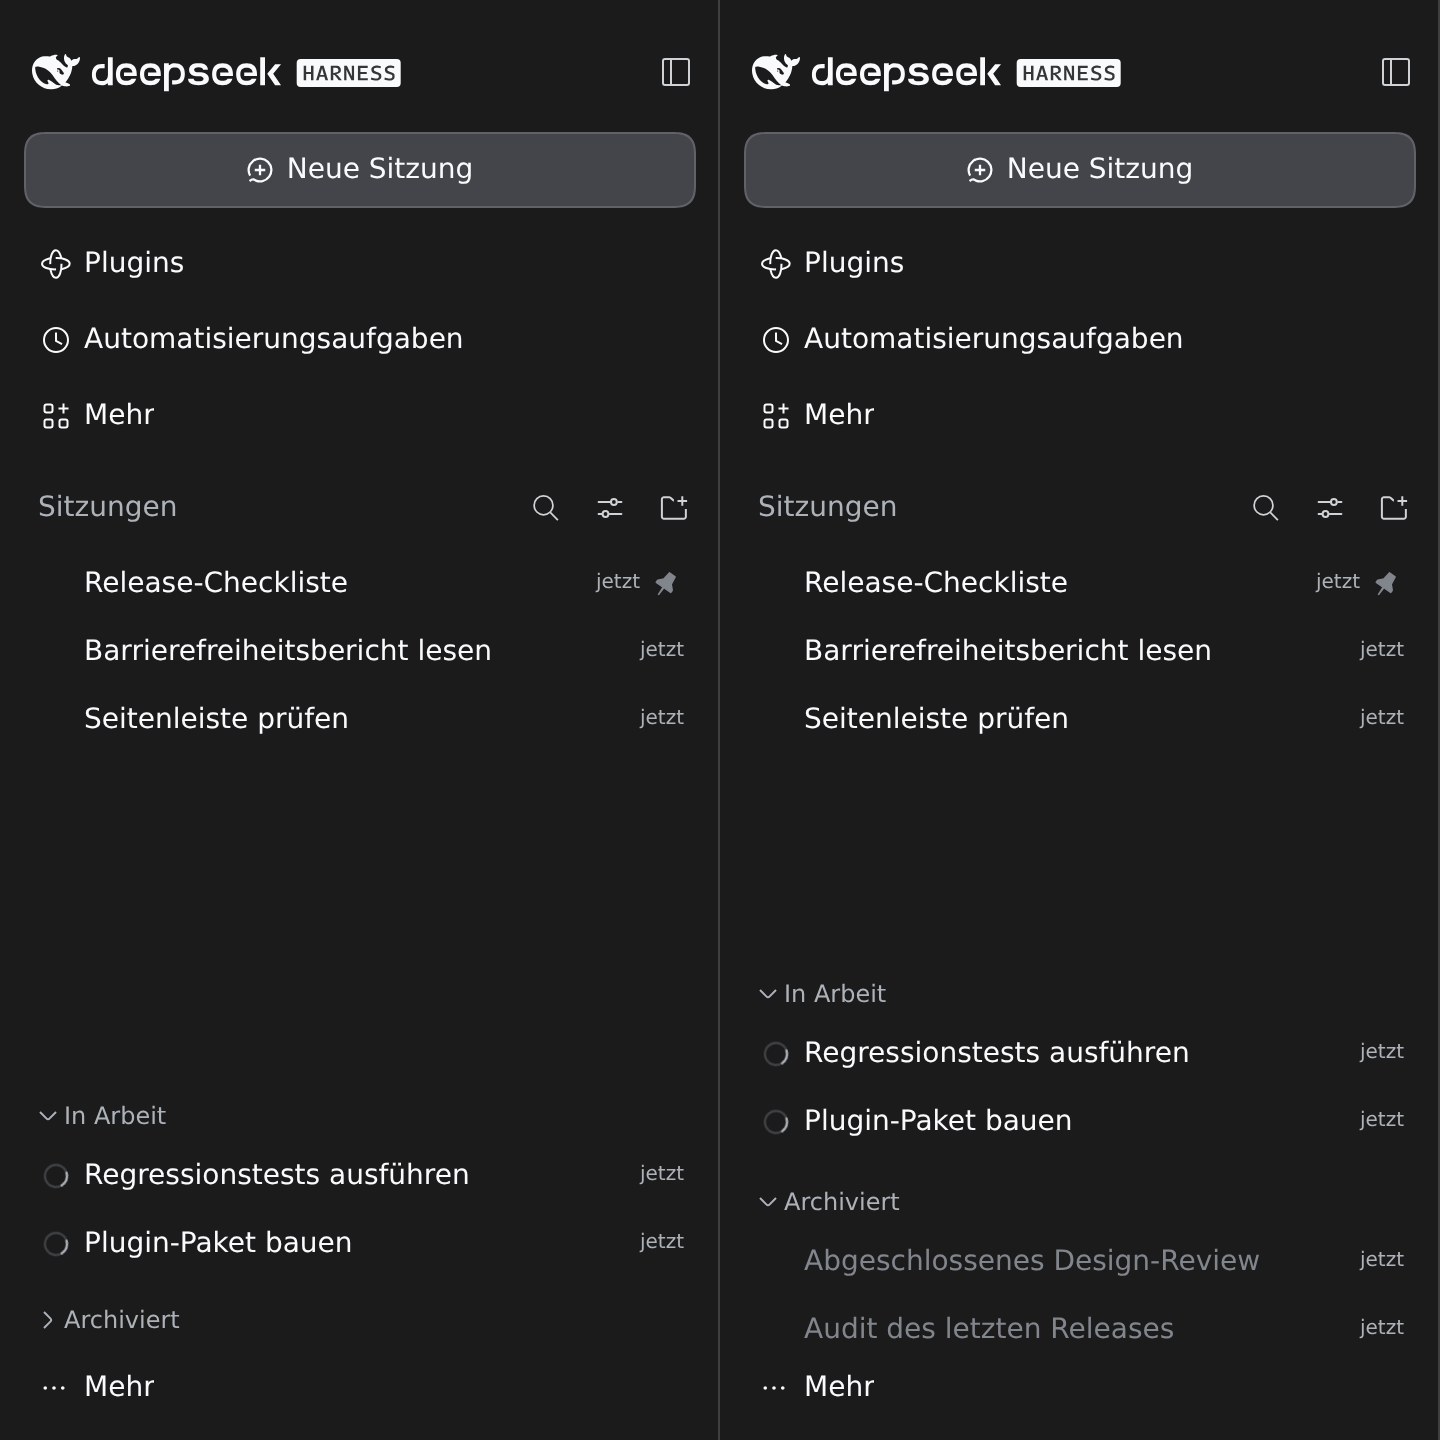
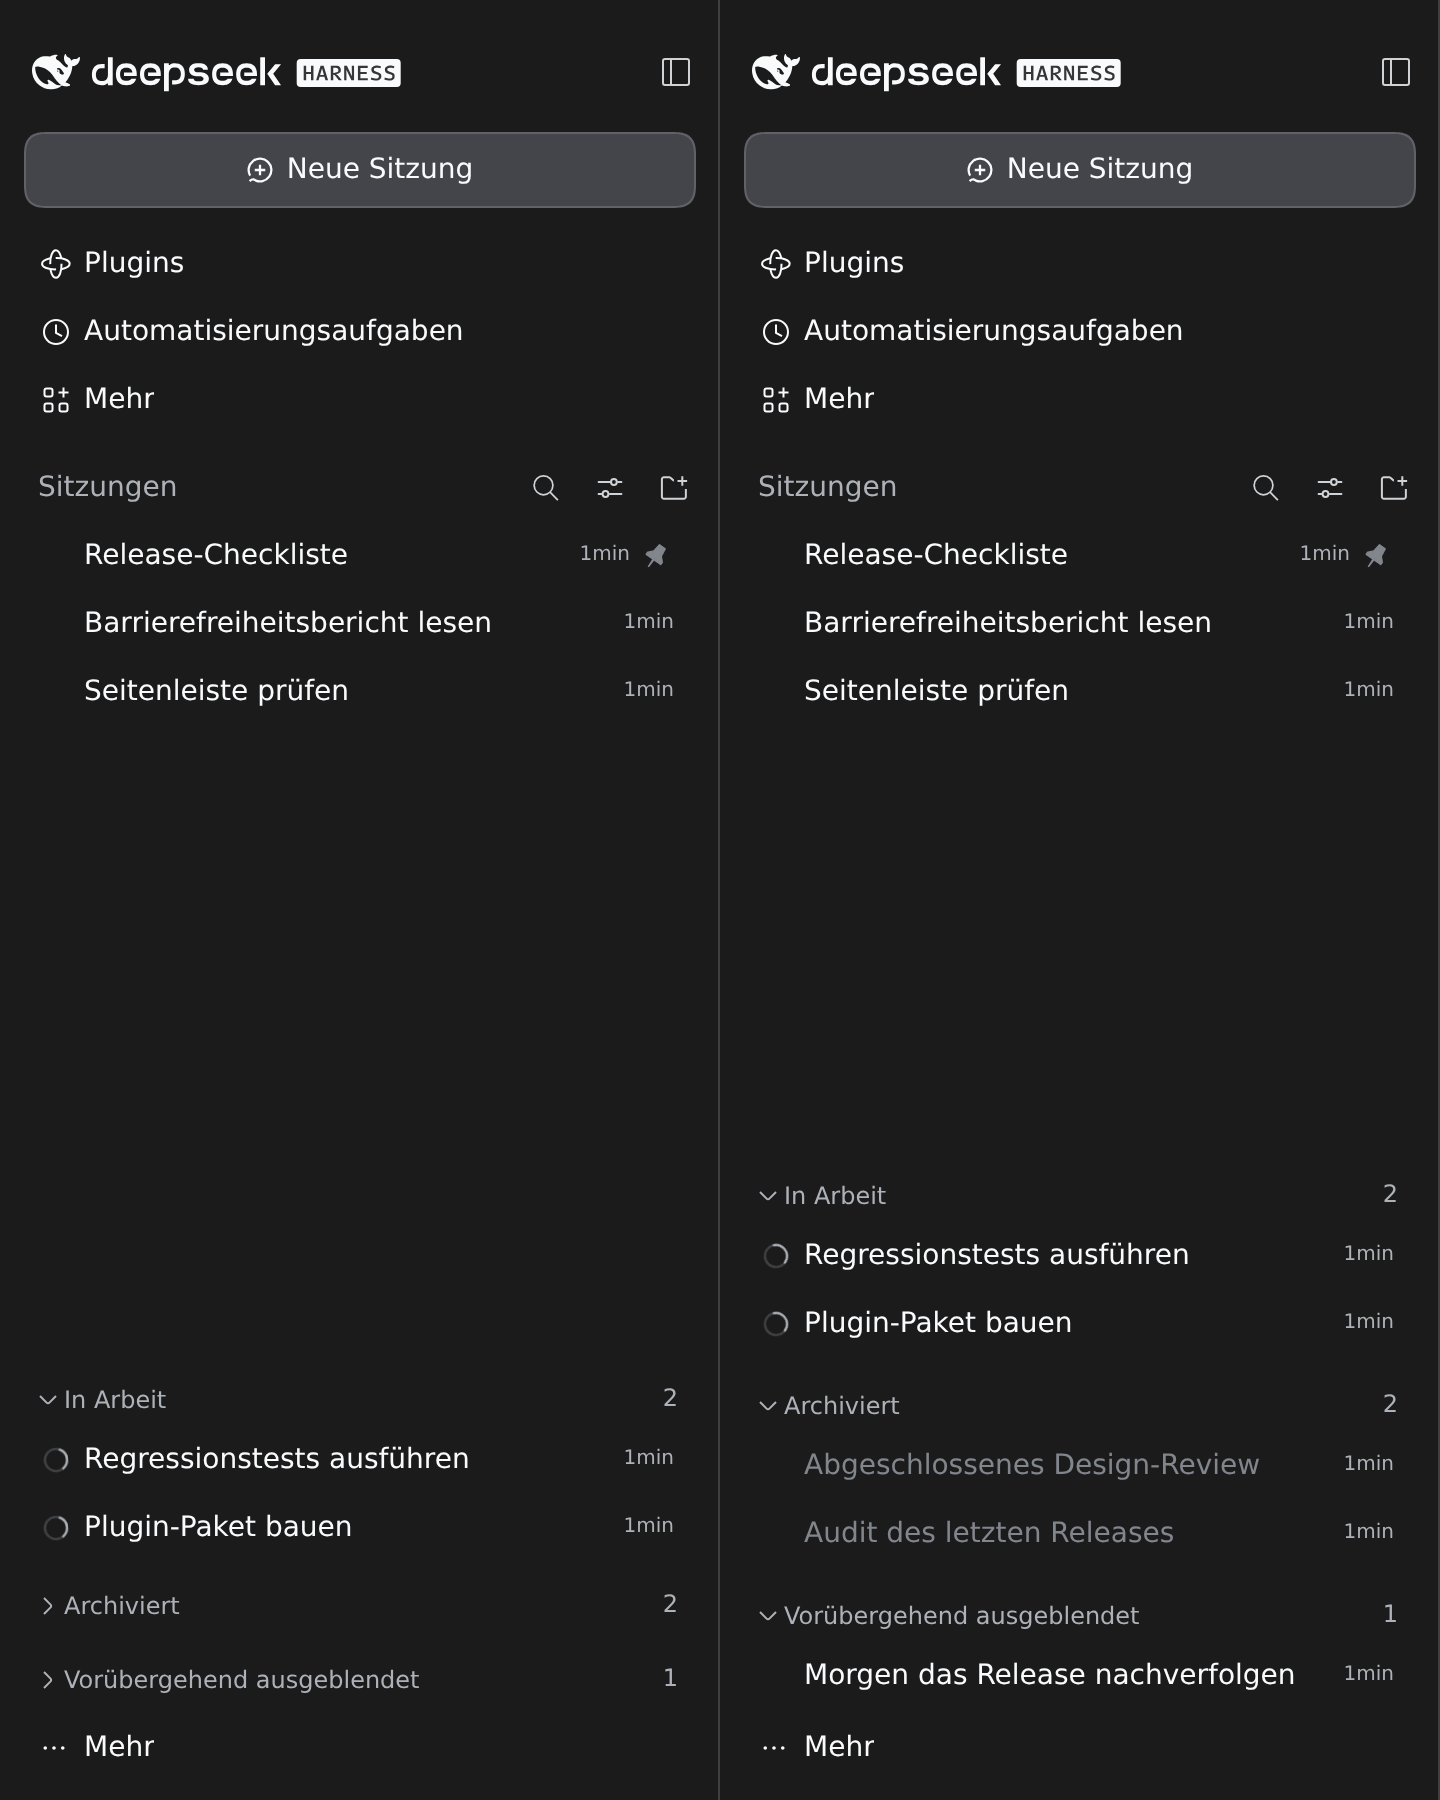
fix(sidebar-inbox): 하단 고정을 복구하고 잠시 숨김 미리보기를 갱신한다 (#234)

diff --git a/packages/ui-sidebar-inbox/src/headings.ts b/packages/ui-sidebar-inbox/src/headings.ts
@@ -41,6 +41,15 @@ export function installHeadings(
   const open: Record<FooterSection, boolean> = { Working: true, Archived: false, Snoozed: false }
   const style = document.createElement('style')
   style.textContent = `
+    /* The native wide sidebar sizes its final grid row to content. While we
+       split the list into panes, let that row and its list fill the viewport. */
+    [data-sidebar-scrollport]:has([data-dsh-inbox-tree]) {
+      grid-template-rows: 8px max-content 2px minmax(0, 1fr);
+    }
+    [data-sidebar-scrollport] :has(> [data-sidebar-list-area] [data-dsh-inbox-tree]) { flex: 1; }
+    [data-sidebar-scrollport] [data-sidebar-list-area]:has([data-dsh-inbox-tree]) { display: flex; }
+    /* The native viewport fade must not cover the independently scrolling footer. */
+    [data-sidebar-scrollport]:has([data-dsh-inbox-tree]) + span[aria-hidden="true"] { display: none; }
     [data-dsh-inbox-tree] {
       display: flex; flex-direction: column; padding-bottom: 0;
       overflow: hidden; scrollbar-gutter: auto; interpolate-size: allow-keywords;
@@ -167,7 +176,7 @@ export function installHeadings(
   }
   const sizeFooters = () => {
     for (const [tree, { footer }] of panes) {
-      footer.style.maxBlockSize = `${footerLimit(tree, window.innerHeight)}px`
+      footer.style.maxBlockSize = `${Math.min(tree.clientHeight / 2, footerLimit(tree, window.innerHeight))}px`
     }
   }
   const animateArchive = (tree: HTMLElement, from: number) => {
@@ -185,7 +194,7 @@ export function installHeadings(
         (Number.parseFloat(margins.marginTop) || 0) +
         (Number.parseFloat(margins.marginBottom) || 0)
     }
-    const target = Math.min(naturalHeight, footerLimit(tree, window.innerHeight))
+    const target = Math.min(naturalHeight, tree.clientHeight / 2, footerLimit(tree, window.innerHeight))
     if (Math.abs(target - from) < 0.5) return
     const duration = open.Archived ? 480 : 260
     footer.style.transition = 'none'

diff --git a/packages/ui-sidebar-inbox/README.ru.md b/packages/ui-sidebar-inbox/README.ru.md
@@ -8,13 +8,13 @@
 
 ## Предпросмотр
 
-**Светлая тема**: слева «Архивные» свёрнуты, справа развёрнуты.
+**Светлая тема**: слева «Архивные» и «Временно скрытые» свёрнуты, справа развёрнуты. Заголовки показывают количество сеансов.
 
-<img src="./assets/sidebar-preview-ru-light.webp" alt="Sidebar Inbox в светлой теме с русским интерфейсом: закреплённые сеансы и сеансы из входящих вверху, список «В работе» внизу; сравнение свёрнутых «Архивных» слева и развёрнутых справа" width="720" />
+<img src="./assets/sidebar-preview-ru-light.webp" alt="Sidebar Inbox в светлой теме: закреплённые и входящие сеансы, «В работе», «Архивные» и «Временно скрытые» с количеством; два последних раздела свёрнуты слева и развёрнуты справа" width="720" />
 
-**Тёмная тема**: те же примеры сеансов; сравнение свёрнутых и развёрнутых «Архивных».
+**Тёмная тема**: те же примеры сеансов; сравнение свёрнутых и развёрнутых «Архивных» и «Временно скрытых».
 
-<img src="./assets/sidebar-preview-ru-dark.webp" alt="Sidebar Inbox в тёмной теме с русским интерфейсом: закреплённые сеансы и сеансы из входящих вверху, список «В работе» внизу; сравнение свёрнутых «Архивных» слева и развёрнутых справа" width="720" />
+<img src="./assets/sidebar-preview-ru-dark.webp" alt="Sidebar Inbox в тёмной теме: закреплённые и входящие сеансы, «В работе», «Архивные» и «Временно скрытые» с количеством; два последних раздела свёрнуты слева и развёрнуты справа" width="720" />
 
 ## Использование
 

diff --git a/packages/ui-sidebar-inbox/README.es.md b/packages/ui-sidebar-inbox/README.es.md
@@ -8,13 +8,13 @@ Organiza la lista de sesiones de la barra lateral de DSH **por estado**, como T3
 
 ## Vista previa
 
-**Claro**: a la izquierda, Archivadas plegado; a la derecha, desplegado.
+**Claro**: Archivadas y Ocultas temporalmente están plegadas a la izquierda y desplegadas a la derecha. Los encabezados muestran el número de sesiones.
 
-<img src="./assets/sidebar-preview-es-light.webp" alt="Sidebar Inbox con el tema claro y la interfaz en español: sesiones fijadas y de la bandeja de entrada arriba y la lista En curso abajo, comparando Archivadas plegado a la izquierda y desplegado a la derecha" width="720" />
+<img src="./assets/sidebar-preview-es-light.webp" alt="Sidebar Inbox con tema claro: sesiones fijadas y de la bandeja de entrada, En curso, Archivadas y Ocultas temporalmente con recuentos; las dos últimas plegadas a la izquierda y desplegadas a la derecha" width="720" />
 
-**Oscuro**: las mismas sesiones de ejemplo, comparando Archivadas plegado y desplegado.
+**Oscuro**: las mismas sesiones de ejemplo, comparando Archivadas y Ocultas temporalmente plegadas y desplegadas.
 
-<img src="./assets/sidebar-preview-es-dark.webp" alt="Sidebar Inbox con el tema oscuro y la interfaz en español: sesiones fijadas y de la bandeja de entrada arriba y la lista En curso abajo, comparando Archivadas plegado a la izquierda y desplegado a la derecha" width="720" />
+<img src="./assets/sidebar-preview-es-dark.webp" alt="Sidebar Inbox con tema oscuro: sesiones fijadas y de la bandeja de entrada, En curso, Archivadas y Ocultas temporalmente con recuentos; las dos últimas plegadas a la izquierda y desplegadas a la derecha" width="720" />
 
 ## Uso
 

diff --git a/packages/ui-sidebar-inbox/README.fr.md b/packages/ui-sidebar-inbox/README.fr.md
@@ -8,13 +8,13 @@ Ce plugin organise la liste des sessions de la barre latérale de DSH **par éta
 
 ## Aperçu
 
-**Clair** : à gauche, Archivées replié ; à droite, déplié.
+**Clair** : Archivées et Masquées temporairement sont repliées à gauche et dépliées à droite. Les titres indiquent le nombre de sessions.
 
-<img src="./assets/sidebar-preview-fr-light.webp" alt="Sidebar Inbox avec le thème clair et l’interface en français : sessions épinglées et de la boîte de réception en haut, liste En cours en bas, comparaison d’Archivées replié à gauche et déplié à droite" width="720" />
+<img src="./assets/sidebar-preview-fr-light.webp" alt="Sidebar Inbox en thème clair : sessions épinglées et reçues, En cours, Archivées et Masquées temporairement avec compteurs ; les deux dernières repliées à gauche et dépliées à droite" width="720" />
 
-**Sombre** : les mêmes sessions d’exemple, comparant Archivées replié et déplié.
+**Sombre** : les mêmes sessions d’exemple, comparant Archivées et Masquées temporairement repliées et dépliées.
 
-<img src="./assets/sidebar-preview-fr-dark.webp" alt="Sidebar Inbox avec le thème sombre et l’interface en français : sessions épinglées et de la boîte de réception en haut, liste En cours en bas, comparaison d’Archivées replié à gauche et déplié à droite" width="720" />
+<img src="./assets/sidebar-preview-fr-dark.webp" alt="Sidebar Inbox en thème sombre : sessions épinglées et reçues, En cours, Archivées et Masquées temporairement avec compteurs ; les deux dernières repliées à gauche et dépliées à droite" width="720" />
 
 ## Utilisation
 

diff --git a/packages/ui-sidebar-inbox/README.pt.md b/packages/ui-sidebar-inbox/README.pt.md
@@ -8,13 +8,13 @@ Organiza a lista de sessões da barra lateral do DSH **por estado**, como o T3 C
 
 ## Pré-visualização
 
-**Claro**: à esquerda, Arquivadas recolhido; à direita, expandido.
+**Claro**: Arquivadas e Ocultadas temporariamente estão recolhidas à esquerda e expandidas à direita. Os títulos mostram a contagem de sessões.
 
-<img src="./assets/sidebar-preview-pt-light.webp" alt="Sidebar Inbox no tema claro com a interface em português: sessões fixadas e da caixa de entrada no topo e a lista Em andamento embaixo, comparando Arquivadas recolhido à esquerda e expandido à direita" width="720" />
+<img src="./assets/sidebar-preview-pt-light.webp" alt="Sidebar Inbox no tema claro: sessões fixadas e da caixa de entrada, Em andamento, Arquivadas e Ocultadas temporariamente com contagens; as duas últimas recolhidas à esquerda e expandidas à direita" width="720" />
 
-**Escuro**: as mesmas sessões de exemplo, comparando Arquivadas recolhido e expandido.
+**Escuro**: as mesmas sessões de exemplo, comparando Arquivadas e Ocultadas temporariamente recolhidas e expandidas.
 
-<img src="./assets/sidebar-preview-pt-dark.webp" alt="Sidebar Inbox no tema escuro com a interface em português: sessões fixadas e da caixa de entrada no topo e a lista Em andamento embaixo, comparando Arquivadas recolhido à esquerda e expandido à direita" width="720" />
+<img src="./assets/sidebar-preview-pt-dark.webp" alt="Sidebar Inbox no tema escuro: sessões fixadas e da caixa de entrada, Em andamento, Arquivadas e Ocultadas temporariamente com contagens; as duas últimas recolhidas à esquerda e expandidas à direita" width="720" />
 
 ## Uso
 

diff --git a/packages/ui-sidebar-inbox/README.de.md b/packages/ui-sidebar-inbox/README.de.md
@@ -8,13 +8,13 @@ Das Plugin ordnet die Sitzungsliste in der DSH-Seitenleiste **nach Status**, äh
 
 ## Vorschau
 
-**Hell**: Links ist Archiviert eingeklappt, rechts ausgeklappt.
+**Hell**: Links sind Archiviert und Vorübergehend ausgeblendet eingeklappt, rechts ausgeklappt. Die Überschriften zeigen die Sitzungsanzahl.
 
-<img src="./assets/sidebar-preview-de-light.webp" alt="Sidebar Inbox im hellen Design mit deutscher Oberfläche: angeheftete und Posteingangs-Sitzungen oben, die Liste In Arbeit unten, Vergleich von Archiviert eingeklappt links und ausgeklappt rechts" width="720" />
+<img src="./assets/sidebar-preview-de-light.webp" alt="Sidebar Inbox im hellen Design: angeheftete und Posteingangs-Sitzungen sowie In Arbeit, Archiviert und Vorübergehend ausgeblendet mit Anzahl; die letzten beiden links eingeklappt, rechts ausgeklappt" width="720" />
 
-**Dunkel**: Dieselben Beispielsitzungen im Vergleich von Archiviert eingeklappt und ausgeklappt.
+**Dunkel**: Dieselben Beispielsitzungen mit Archiviert und Vorübergehend ausgeblendet im eingeklappten und ausgeklappten Zustand.
 
-<img src="./assets/sidebar-preview-de-dark.webp" alt="Sidebar Inbox im dunklen Design mit deutscher Oberfläche: angeheftete und Posteingangs-Sitzungen oben, die Liste In Arbeit unten, Vergleich von Archiviert eingeklappt links und ausgeklappt rechts" width="720" />
+<img src="./assets/sidebar-preview-de-dark.webp" alt="Sidebar Inbox im dunklen Design: angeheftete und Posteingangs-Sitzungen sowie In Arbeit, Archiviert und Vorübergehend ausgeblendet mit Anzahl; die letzten beiden links eingeklappt, rechts ausgeklappt" width="720" />
 
 ## Verwendung
 

diff --git a/packages/ui-sidebar-inbox/README.en.md b/packages/ui-sidebar-inbox/README.en.md
@@ -8,13 +8,13 @@ Sidebar Inbox organizes the DSH sidebar session list **by state**, like T3 Code 
 
 ## Preview
 
-**Light**: Archived is collapsed on the left and expanded on the right.
+**Light**: Archived and Snoozed are collapsed on the left and expanded on the right. Section headings show session counts.
 
-<img src="./assets/sidebar-preview-en-light.webp" alt="Sidebar Inbox in the light theme: pinned and inbox sessions at the top and the Working list at the bottom, comparing Archived collapsed on the left and expanded on the right" width="720" />
+<img src="./assets/sidebar-preview-en-light.webp" alt="Sidebar Inbox in the light theme: pinned and inbox sessions, Working, Archived and Snoozed lists with counts; Archived and Snoozed collapsed on the left and expanded on the right" width="720" />
 
-**Dark**: The same sample sessions, comparing Archived collapsed and expanded.
+**Dark**: The same sample sessions, comparing Archived and Snoozed collapsed and expanded.
 
-<img src="./assets/sidebar-preview-en-dark.webp" alt="Sidebar Inbox in the dark theme: pinned and inbox sessions at the top and the Working list at the bottom, comparing Archived collapsed on the left and expanded on the right" width="720" />
+<img src="./assets/sidebar-preview-en-dark.webp" alt="Sidebar Inbox in the dark theme: pinned and inbox sessions, Working, Archived and Snoozed lists with counts; Archived and Snoozed collapsed on the left and expanded on the right" width="720" />
 
 ## Usage
 

diff --git a/packages/ui-sidebar-inbox/README.zh.md b/packages/ui-sidebar-inbox/README.zh.md
@@ -8,13 +8,13 @@
 
 ## 预览
 
-**浅色**：左侧为 Archived 折叠状态，右侧为展开状态。中文界面中分区标题以英语显示。
+**浅色**：左侧为已归档和已暂时隐藏折叠状态，右侧为两个分区展开状态。分区标题显示会话数量。
 
-<img src="./assets/sidebar-preview-zh-light.webp" alt="浅色主题、中文界面的 Sidebar Inbox：上方为置顶和收件箱会话，下方为 Working 列表，左右对比 Archived 折叠与展开" width="720" />
+<img src="./assets/sidebar-preview-zh-light.webp" alt="浅色主题、中文界面的 Sidebar Inbox：置顶和收件箱会话，以及进行中、已归档、已暂时隐藏列表和会话数量；左侧折叠已归档和已暂时隐藏，右侧展开" width="720" />
 
-**深色**：使用相同的示例会话，对比 Archived 的折叠与展开。
+**深色**：使用相同的示例会话，对比已归档和已暂时隐藏的折叠与展开。
 
-<img src="./assets/sidebar-preview-zh-dark.webp" alt="深色主题、中文界面的 Sidebar Inbox：上方为置顶和收件箱会话，下方为 Working 列表，左右对比 Archived 折叠与展开" width="720" />
+<img src="./assets/sidebar-preview-zh-dark.webp" alt="深色主题、中文界面的 Sidebar Inbox：置顶和收件箱会话，以及进行中、已归档、已暂时隐藏列表和会话数量；左侧折叠已归档和已暂时隐藏，右侧展开" width="720" />
 
 ## 使用方法
 
